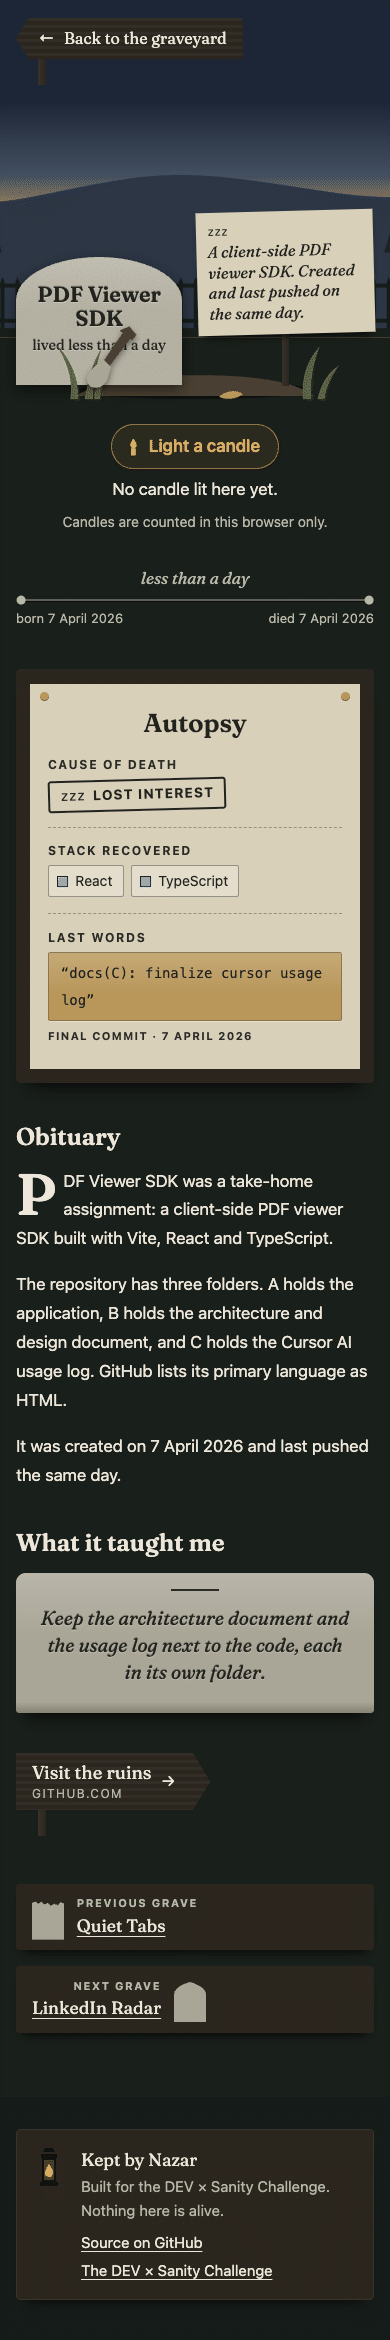
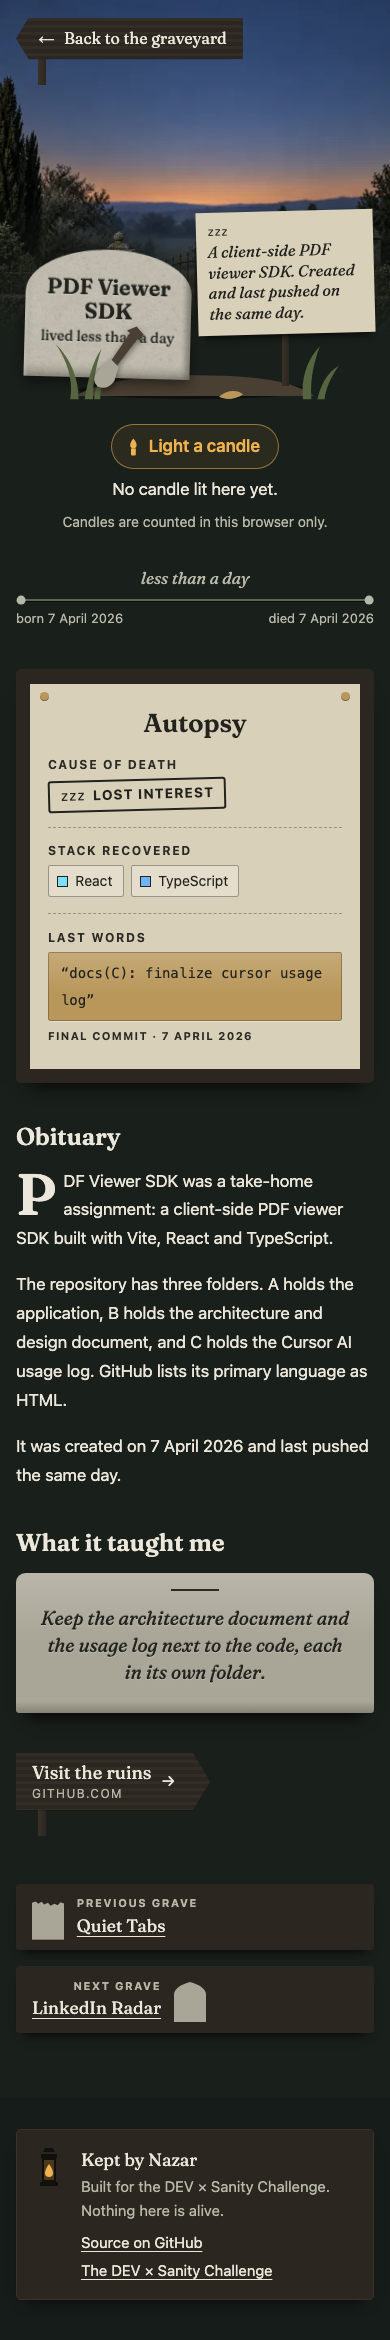
Record verified visual handoff

Changed region(s): [[0.0, 0.0, 1.0, 0.1872]]

diff --git a/docs/BUILD_LOG.md b/docs/BUILD_LOG.md
@@ -2803,3 +2803,21 @@ Keep every screenshot you judge from by opening the PNG. If you cannot view imag
 
 - Reviewed A05 on the actual dark ground color in `shots/terrain-on-ground.png`; its visible composited edge has no red matte. The apparent red regions when viewing its transparency alone are hidden RGB pixels. Cropped transparent margins from 1254x1254 to 1185x734 and zeroed RGB only where alpha is zero, preventing hidden colors from bleeding into interpolated edges. The source remains lossless PNG. Opened the processed PNG again for inspection.
 - A01 remains the approved visual anchor for integration: cool blue dusk from above and warm low horizon light, with quiet sky behind HTML title text. A02 matches its palette and scale; A03 and A04 are fine-grained material sources. A05 is reserved for sparse foreground grounding. No source master exceeds the 8 MB hook limit.
+
+#### Material and environment implementation
+
+- The homepage uses responsive WebP derivatives of A01 at desktop widths and the separately composed A02 at mobile widths. The existing SVG horizon remains beneath the image as an image-failure fallback; a failed raster is hidden so its broken-image glyph does not sit over the fallback. A static crop correction moved the title into quiet sky without changing the HTML title, tagline or count.
+- `siteSettings.backdrop` is an optional image with hotspot. The settings query includes its image reference, crop and hotspot; `@sanity/image-url` builds responsive Sanity CDN candidates when a valid reference is configured. No Sanity upload or mutation was needed. The supplied local pair remains the complete default. The dependency is credited in README.
+- A03 is one reusable limestone derivative behind the existing content-sized masks, with deterministic per-slug crop offsets and retained weathering. The mausoleum's special CSS face and pediment also use the material. A04 is a muted repeating yard surface, without a promoted page layer. Cropped A05 appears only at selected old stone bases. Existing silhouettes, dates, epitaphs, shapes, statuses, dense grid packing and candle data/handlers remain unchanged.
+- The memorial Stone now receives the exact computed `life`, `tilt`, `dx` and `dy` values used by its yard plot. Browser comparison for Everything.js, Kindness Chain and PDF Viewer SDK showed exact matches for all four values.
+- The only 320px corrective edit bounded the existing candle glow's width to the viewport; it does not change candle behavior. The measured document width is now exactly 320px on the homepage and all three tested detail pages.
+
+#### Rendered and release checks
+
+- Opened full-page Chromium PNGs for `/`, `/rip/everything-js/`, `/rip/kindness-chain/` and `/rip/pdf-viewer-sdk/` at 1440x900, 1280x800 and 390x844 in two screenshot passes. Also opened viewport crops of the homepage at all three sizes, a 768px home capture, the 1440px image-failure fallback and a focused yard plot. The final README-linked six PNGs replace the same filenames in `docs/screenshots/`; scratch captures and browser scripts remain excluded under `shots/`.
+- At 390px the browser selected A02, made no A01 request and reported document width 390px on all four routes. The inspected marker/tag at 1280px remained grounded and readable. One h1 remained on each route. The fallback SVG appeared when the raster request was blocked. A focused plot retained a visible 2px outline. No new environmental motion or candle behavior was added.
+- After optimization, the selected full-page decorative transfers were about 269 KB at 1440px (A01 75 KB, A03 63 KB, A04 79 KB, A05 53 KB) and 220 KB at 390px (A02 25 KB plus shared materials). These are file-size sums of the selected local derivatives, not a field network measurement. The responsive mobile request audit showed no desktop environment transfer.
+- Required commands passed: `web/ npx astro check` (0 errors/warnings), `web/ npm test` (68/68), `web/ npm run build` (42 pages), `studio/ npx tsc --noEmit`, and `studio/ npx sanity schema validate` (0 errors/warnings). The build needed ordinary Sanity network access outside the restricted shell; it then succeeded without changing credentials or data.
+- Three Lighthouse 13.5 mobile simulated runs against the local production preview yielded a median performance score of 99, accessibility 100, LCP 2.176 s, CLS 0.00064 and TBT 0 ms. This is a local lab median, not a real-phone or field result. Historic R4 scores in this log were 100s under their earlier setup; no directly comparable before rerun was made on this branch.
+- A cross-browser attempt used cached Firefox and WebKit binaries, but their revisions do not match the available Playwright package: Firefox launch timed out and WebKit failed at startup with a missing native symbol. Their rendering was not approved. A real phone and 200% zoom remain outside this local lab evidence.
+- The three source-provenance fields left as literal placeholders in the user's addition (generator name, actual candidates per image and rejection outcomes) cannot be converted into exact historical facts from the prompts or PNG metadata. The owner-generated sources and the prompt document are credited; this task's technical crop, encoding and integration are recorded separately. No invented generator, count or rejected candidate is attributed.
